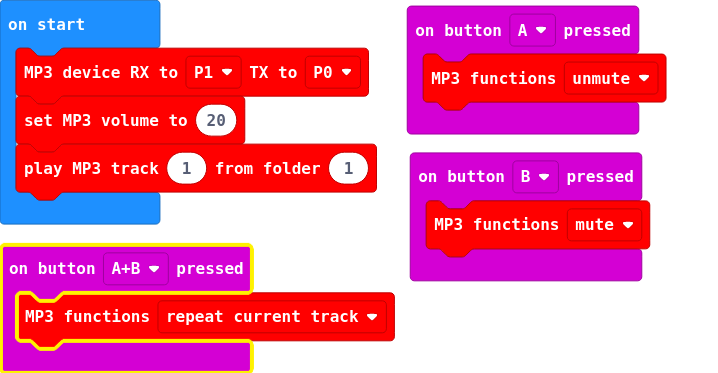
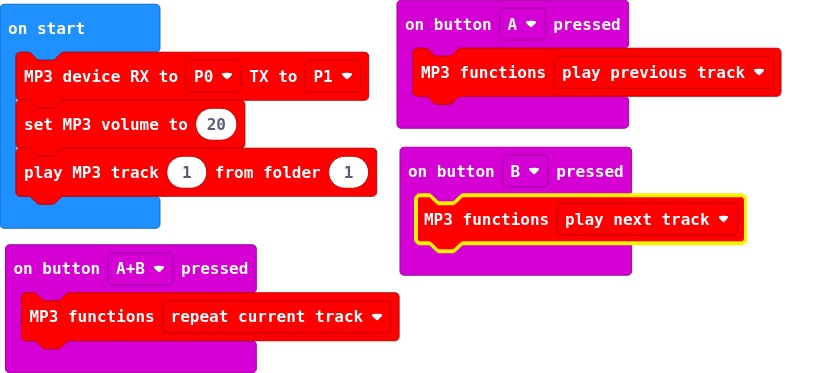
Fixed order on Mp3Command

diff --git a/main.ts b/main.ts
@@ -1,12 +1,12 @@
 input.onButtonPressed(Button.A, function () {
-    hacedores.runMP3Functions(Mp3Command.UNMUTE)
+    hacedores.runMP3Functions(Mp3Command.PLAY_PREVIOUS_TRACK)
 })
 input.onButtonPressed(Button.AB, function () {
     hacedores.runMP3Functions(Mp3Command.INCREASE_VOLUME)
 })
 input.onButtonPressed(Button.B, function () {
-    hacedores.runMP3Functions(Mp3Command.MUTE)
+    hacedores.runMP3Functions(Mp3Command.PLAY_NEXT_TRACK)
 })
-hacedores.connectMP3(SerialPin.P1, SerialPin.P0)
+hacedores.connectMP3(SerialPin.P0, SerialPin.P1)
 hacedores.setMP3Volume(20)
 hacedores.playMP3TrackFromFolder(1, 1)

diff --git a/hacedores.ts b/hacedores.ts
@@ -16,13 +16,11 @@ const enum Mp3Command {
     //% block="play previous track"
     PLAY_PREVIOUS_TRACK,
     //% block="increase volume"
-    REPEAT_FOLDER,
-    //% block="repeat folder"
-    REPEART_CURRENT_TRACK,
-    //% block="repeat current track"
     INCREASE_VOLUME,
     //% block="decrease volume"
     DECREASE_VOLUME,
+    //% block="repeat current track"
+    REPEART_CURRENT_TRACK,
     //% block="pause"
     PAUSE,
     //% block="play"
